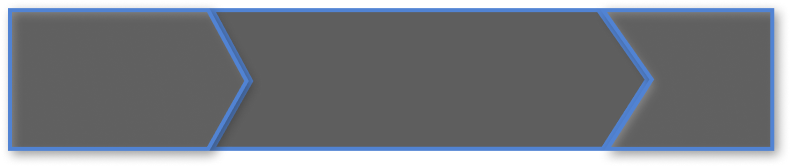
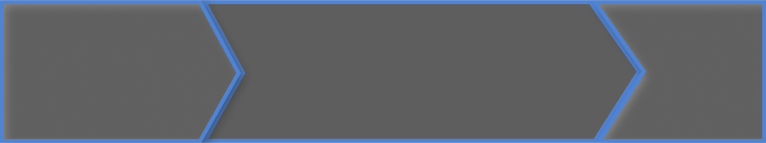
Fixed desktop and mobile version
Removed some whitspace on image and switched out the low res pngs to higher quality versions.

Changed region(s): [[0.0, 0.0, 1.0, 1.0]]

diff --git a/cards.html b/cards.html
@@ -4,139 +4,11 @@
     <meta charset="UTF-8">
     <meta name="viewport" content="width=device-width, initial-scale=1.0">
     <link rel="stylesheet" href="/ElectricCar/assets/CSS/mobile.css">
+    <link rel="stylesheet" href="/ElectricCar/assets/CSS/cards-dekstop.css">
     <title>Document</title>
 </head>
 <body>
     <style>
-        body{
-            display: flex;
-            flex-direction:column;
-            align-items: center;
-            color:#FFF;
-        }
-        section.featureCard{
-            max-width: 490px;
-            margin-bottom:125px;
-        }
-        section.featureCard>figure{
-            margin-bottom: 0px;
-            position: relative;
-        }
-        section.featureCard>figure>span{
-            position:absolute
-        }
-        section.featureCard>figure img{
-            max-width:450px;
-        }
-        .fetureBtn{
-            height: 59px;
-            width: 303px;
-            display: flex;
-            flex-direction: column;
-            position: relative;
-            margin-left: auto;
-            top: -10px;
-        }
-        section.featureCard>figcaption>img{
-            position: absolute;
-            top: 20px;
-            left: 50px;
-        }
-        .featureCard img.tire{
-            z-index: 4;
-            left: 20px;
-            width:59px;
-            top:0;
-            left:0;
-        }
-        .featureCard img.tire::after{
-            content: '';
-            position: absolute;
-            bottom: 0%;
-            left: 5%;
-            width: 90%;
-            height: 8%;
-            border-radius: 50%;
-      
-        }
-        .featureCard span.btnTxt {
-            font-size: 18px;
-            display: flex;
-            position: absolute;
-            flex-wrap: wrap;
-            z-index: 3;
-            color: #fff;
-            top: 8px;
-            left: 120px;
-            max-width: 120px;
-            justify-content: center;
-            text-align: center;
-            height: 44px;
-            align-items: center;
-        }
-        .featureCard img.fetureArrowsHover {
-            top: -3px;
-            z-index: 2;
-            left: 21px;
-            clip-path: inset(0px 278px 0px 0px);
-        }
-        .featureCard img.drk {
-            top: 5px;
-            z-index: 0;
-            left: 30px;
-            box-shadow: 0px 4px 12px 0px black;
-        }
-        .fetureBtn:hover{
-            cursor: pointer;
-        }
-        .fetureBtn:hover img.tire{
-            animation-name:tire;
-            animation-duration:2s;
-            animation-fill-mode: forwards;
-        }
-        .fetureBtn:hover img.fetureArrowsHover{
-            animation-name:arrows;
-            animation-duration:2s;
-            animation-fill-mode: forwards;
-            /* box-shadow: 0px 4px 12px 0px black; */
-        }
-        .fetureBtn:hover img.drk{
-            animation-name:card;
-            animation-duration:2s;
-            animation-fill-mode: forwards;
-        }
-        body{
-            background: linear-gradient(270deg, #162133 0%, rgba(32, 47, 72, 0.9) 44.27%, rgba(32, 47, 72, 0.9) 55.73%, #162133 100%);
-        }
-        @keyframes tire{
-            0% {
-                transform: rotate3d(0, 0, 0);
-                left:20px;
-            }
-            100%{
-                transform: rotate3d(0, 0, 360, 5turn);
-                left:250px;
-            }
-        }
-        @keyframes arrows{
-            0% {
-                clip-path: inset(0px 274px 0px 0px);
-               
-            }
-
-            100%{
-                clip-path: inset(0px 0px 0px 0px);
-           
-            }
-        }
-        @keyframes card{
-            0% {
-                box-shadow: 0px 0px 0px #FFFFFF;
-            }
-            100% {
-                box-shadow: 0px 0px 5px #FFFFFF;
-            }
-        }
         
     </style>
     <section class="featureCard">
@@ -145,42 +17,42 @@
             <img src="assets/redTerra.png">
         </figure>
         <figcaption  class="fetureBtn">
-            <img class="tire" src="assets/img/tire.png">
+            <img class="tire" src="assets/img/tire_big.png">
             <span class="btnTxt">The inside that counts!</span>
-            <img class="fetureArrowsHover" src="assets/img/Arrow_btn_drk.png">
+            <img class="fetureArrowsHover" src="assets/img/Arrows_btn.png">
             
          
-            <img class="drk" src="assets/img/fetureBg.png">
+            <img class="drk" src="assets/img/Arrow_btn_big.png">
         </figcaption>
     </section>
 
     <section class="featureCard">
         <figure>
             <span class="featureHeader">Card 2</span>
-            <img src="assets/yellowTerra.png">
+            <img src="assets/redTerra.png">
         </figure>
         <figcaption  class="fetureBtn">
-            <img class="tire" src="assets/img/tire.png">
+            <img class="tire" src="assets/img/tire_big.png">
             <span class="btnTxt">The outside that counts!</span>
-            <img class="fetureArrowsHover" src="assets/img/Arrow_btn_drk.png">
+            <img class="fetureArrowsHover" src="assets/img/Arrows_btn.png">
             
          
-            <img class="drk" src="assets/img/fetureBg.png">
+            <img class="drk" src="assets/img/Arrow_btn_big.png">
         </figcaption>
     </section>
 
     <section class="featureCard">
         <figure>
             <span class="featureHeader">Card 3</span>
-            <img src="assets/greenTerra.png">
+            <img src="assets/redTerra.png">
         </figure>
         <figcaption  class="fetureBtn">
-            <img class="tire" src="assets/img/tire.png">
+            <img class="tire" src="assets/img/tire_big.png">
             <span class="btnTxt">Both is good!</span>
-            <img class="fetureArrowsHover" src="assets/img/Arrow_btn_drk.png">
+            <img class="fetureArrowsHover" src="assets/img/Arrows_btn.png">
             
          
-            <img class="drk" src="assets/img/fetureBg.png">
+            <img class="drk" src="assets/img/Arrow_btn_big.png">
         </figcaption>
     </section>
 

diff --git a/assets/CSS/cards-dekstop.css b/assets/CSS/cards-dekstop.css
@@ -1,31 +1,17 @@
-    body{
-        display: flex;
-        flex-direction:column;
-        align-items: center;
-        color:#FFF;
-    }
+@media screen and (min-width:800px){
     section.featureCard{
-        width: 100%;
-        max-width: 450px;
+        max-width: 1065px;
         margin-bottom: 125px;
-        margin-left: 40px;
-        font-size: 18px;
+        font-size: 24px;
     }
     section.featureCard>figure{
-        margin: 0px;
-        margin-bottom: 0px;
-        position: relative;
-        box-sizing: border-box;
-        width: 450px;
-    }
-    section.featureCard>figure>span{
-        position:absolute
+        width: 1065px;
     }
     section.featureCard>figure img{
-        max-width:450px;
+        max-width:1065px;
     }
     .fetureBtn{
-        height: 59px;
+        height: 85px;
         width: 303px;
         display: flex;
         flex-direction: column;
@@ -40,11 +26,11 @@
     }
     .featureCard img.tire{
         z-index: 4;
-        left: 20px;
-        width: 59px;
+        width: 85px;
         top: 0;
-        left: 0;
+        left: -150px;
     }
+    
     .featureCard span.btnTxt {
         display: flex;
         position: absolute;
@@ -52,27 +38,30 @@
         z-index: 3;
         color: #fff;
         top: 8px;
-        left: 120px;
-        max-width: 120px;
+        padding-left: 5px;
+        left: 30px;
+        max-width: 180px;
         justify-content: center;
         text-align: center;
-        height: 44px;
+        height: 72px;
         align-items: center;
+        /* font-size: 24px; */
+        /* background-color: rgba(22, 200, 200, 0.7); */
     }
     .featureCard img.fetureArrowsHover {
         top: 1px;
         z-index: 2;
-        height: 59px;
-        width: 284px;
-        left: 27px;
-        clip-path: inset(0px 284px 0px 0px);
+        width: 413px;
+        height: 87px;
+        left: -104px;
+        clip-path: inset(0px 0px 0px 0px);
     }
     .featureCard img.drk {
         top: 5px;
-        width: 275px;
-        height: 50px;
         z-index: 0;
-        left: 30px;
+        left: -100px;
+        height: 75px;
+        width: 400px;
         box-shadow: 0px 4px 12px 0px black;
     }
     .fetureBtn:hover{
@@ -100,16 +89,16 @@
     @keyframes tire{
         0% {
             transform: rotate3d(0, 0, 0);
-            left:20px;
+            left: 0px;
         }
         100%{
             transform: rotate3d(0, 0, 360, 5turn);
-            left:250px;
+            left:370px;
         }
     }
     @keyframes arrows{
         0% {
-            clip-path: inset(0px 274px 0px 0px);
+            clip-path: inset(0px 413px 0px 0px);
             
         }
         
@@ -126,3 +115,4 @@
             box-shadow: 0px 0px 5px #FFFFFF;
         }
     }   
+}
